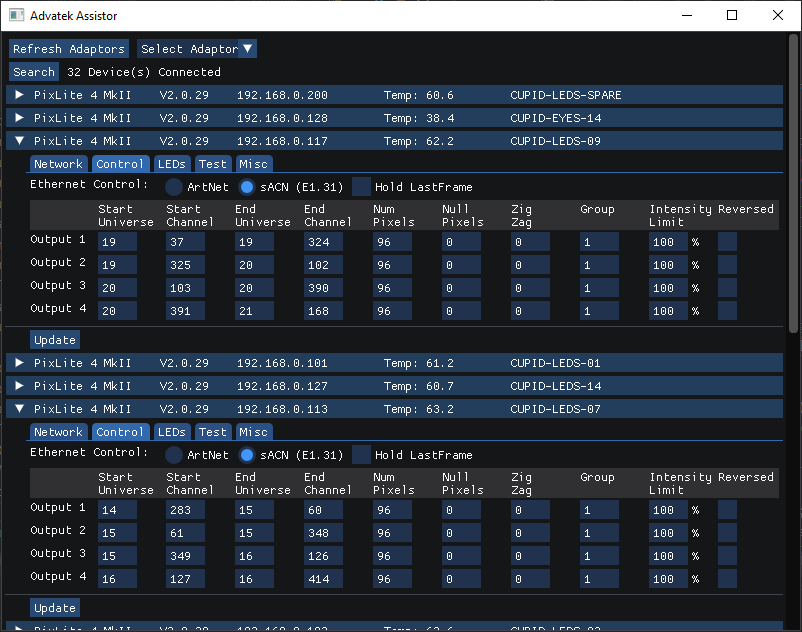
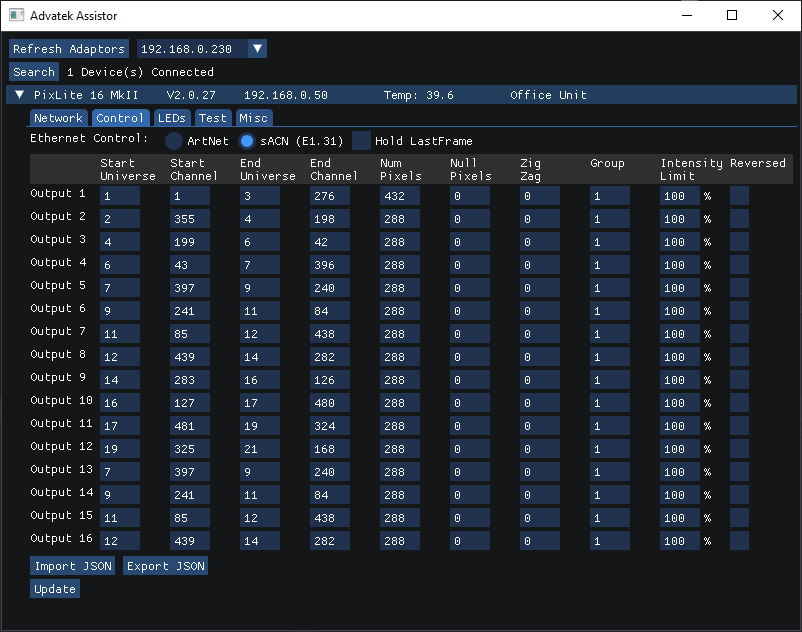
Start JSON export

diff --git a/main.cpp b/main.cpp
@@ -3,9 +3,9 @@
 // If you are new to Dear ImGui, read documentation from the docs/ folder + read the top of imgui.cpp.
 // Read online: https://github.com/ocornut/imgui/tree/master/docs
 
-//#if defined(__ARM__)
+#if defined(__arm__)
 #define IMGUI_IMPL_OPENGL_ES2 // RPI
-//#endif
+#endif
 
 #include "imgui.h"
 #include "imgui_impl_glfw.h"
@@ -34,9 +34,31 @@ advatek_manager adv;
 
 int b_pollRequest = 0;
 int b_refreshAdaptorsRequest = 0;
-int id_networkConfigRequest = -1;
 
 static std::string adaptor_string = "Select Adaptor";
+
+void button_update_controller_settings(int i) {
+	if (ImGui::Button("Update"))
+	{
+		adv.updateDevice(i);
+		b_pollRequest = true;
+	}
+}
+
+void button_import_export_JSON(int i) {
+
+	if (ImGui::Button("Import JSON"))
+	{
+		adv.importJSON(i);
+	}
+	
+	ImGui::SameLine();
+
+	if (ImGui::Button("Export JSON"))
+	{
+		adv.exportJSON(i);
+	}
+}
 
 int main(int, char**)
 {
@@ -256,9 +278,10 @@ int main(int, char**)
 							adv.devices[i]->DHCP = 0;
 						}
 
-						if (ImGui::Button("Update Network Config"))
+						if (ImGui::Button("Update Network"))
 						{
-							id_networkConfigRequest = i;
+							adv.bc_networkConfig(i);
+							b_pollRequest = true;
 						}
 
 						ImGui::EndTabItem();
@@ -332,6 +355,10 @@ int main(int, char**)
 						ImGui::PopItemWidth();
 
 						//ImGui::Text("DMX512 Outputs");
+
+						button_import_export_JSON(i);
+						button_update_controller_settings(i);
+
 						ImGui::EndTabItem();
 					}
 					if (ImGui::BeginTabItem("LEDs"))
@@ -380,6 +407,10 @@ int main(int, char**)
 							adv.devices[i]->Gamma[3] = (int)(adv.devices[i]->Gammaf[3] * 10);
 						};
 						ImGui::PopItemWidth();
+
+						button_import_export_JSON(i);
+						button_update_controller_settings(i);
+
 						ImGui::EndTabItem();
 					}
 					if (ImGui::BeginTabItem("Test"))
@@ -425,6 +456,8 @@ int main(int, char**)
 						}
 						ImGui::PopItemWidth();
 
+						button_update_controller_settings(i);
+
 						ImGui::EndTabItem();
 					}
 
@@ -453,17 +486,12 @@ int main(int, char**)
 							ImGui::PopID();
 						}
 
+						button_update_controller_settings(i);
+
 						ImGui::EndTabItem();
+						
 					}
 					ImGui::EndTabBar();
-
-					ImGui::Separator();
-
-					if (ImGui::Button("Update"))
-					{
-						adv.updateDevice(i);
-						// b_pollRequest = true; 
-					}
 
 					ImGui::TreePop();
 				}
@@ -490,10 +518,6 @@ int main(int, char**)
 		if (b_pollRequest) {
 			adv.poll();
 			b_pollRequest = false;
-		}
-		if (id_networkConfigRequest > -1) {
-			adv.bc_networkConfig(id_networkConfigRequest);
-			id_networkConfigRequest = -1;
 		}
     }
 

diff --git a/advatek_assistor.cpp b/advatek_assistor.cpp
@@ -1,5 +1,7 @@
 #include "advatek_assistor.h"
 
+namespace pt = boost::property_tree;
+
 const char* DriverTypes[3] = {
 		"RGB only",
 		"RGBW only",
@@ -661,6 +663,28 @@ void advatek_manager::refreshAdaptors() {
 	if (advatek_manager::networkAdaptors.size() > 0) {
 		currentAdaptor = 0;
 	}
+}
+
+void advatek_manager::importJSON(int d) {
+	
+}
+
+void advatek_manager::exportJSON(int d) {
+	auto device = advatek_manager::devices[d];
+	pt::ptree root;
+	root.put("Protocol", device->Protocol);
+	root.put("HoldLastFrame", device->HoldLastFrame);
+
+	pt::ptree OutputPixels;
+	
+	for (int output = 0; output < device->NumOutputs; output++)
+	{
+		OutputPixels.put(std::to_string(output), std::to_string(device->OutputPixels[output]));
+	}
+
+	root.add_child("OutputPixels", OutputPixels);
+
+	pt::write_json(std::cout, root);
 }
 
 std::string advatek_manager::macStr(uint8_t * address)

diff --git a/advatek_assistor.h b/advatek_assistor.h
@@ -2,8 +2,12 @@
 
 #include <sstream>
 #include <iostream>
+#include <string>  
 #include <iomanip>
 #include <vector>
+
+#include <boost/property_tree/ptree.hpp>
+#include <boost/property_tree/json_parser.hpp>
 
 #include <boost/array.hpp>
 #include <boost/asio.hpp>
@@ -133,6 +137,9 @@ public:
 
 	void refreshAdaptors();
 	
+	void importJSON(int i);
+	void exportJSON(int i);
+
 	static const char* RGBW_Order[24];
 
 private:
